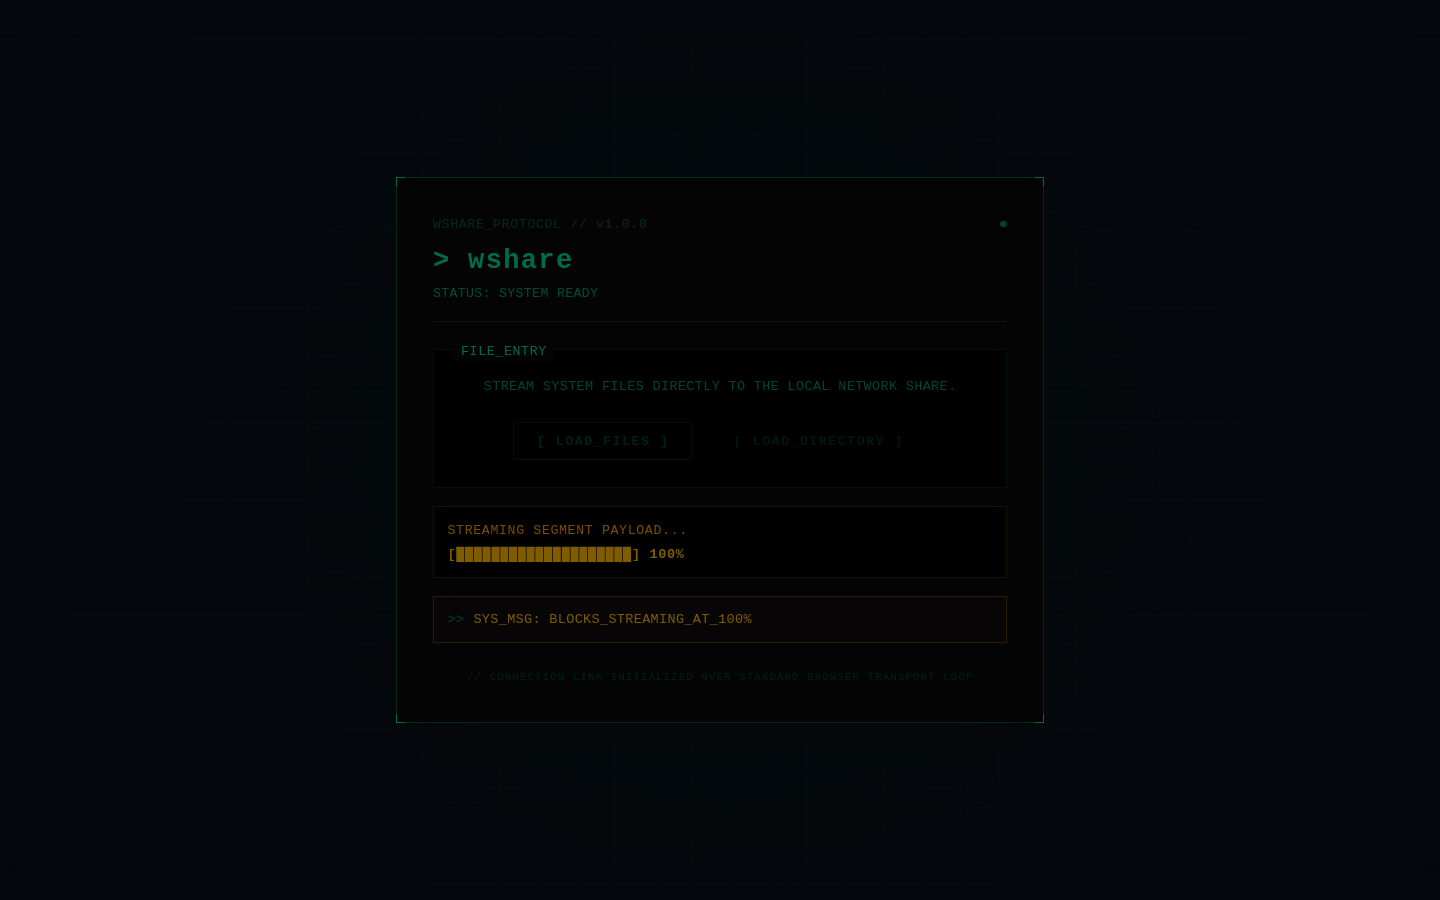
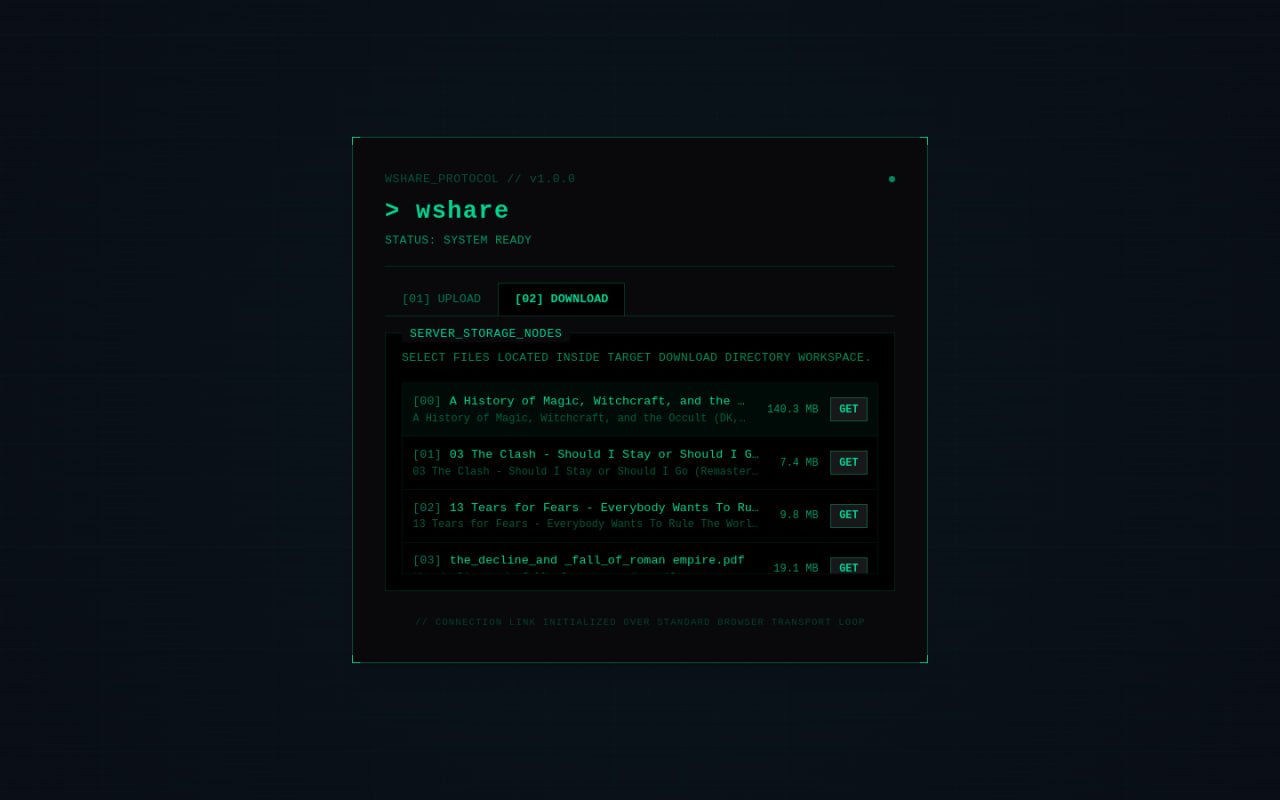
docs: update README with additional details

diff --git a/README.md b/README.md
@@ -10,20 +10,21 @@ A lightweight local network file transfer tool built with **.NET** that enables 
 
 One device runs the server, and others connect using the displayed LAN address. Transfers are streamed over HTTP and written directly to disk in real time.
 
+The server also exposes files stored inside the `wshare-downloads/` directory, allowing connected devices to browse and download files directly from the web interface.
+
 ---
 
 ## 💡 Inspiration
 
-This project was built out of a real limitation
+This project was built out of a real limitation.
 
-I was brought a laptop where **USB access was restricted and software installation required admin privileges**, so I couldn’t use traditional file transfer tools. To solve this, I built `wshare` to move files over a local network using only a browser.
+I was brought a laptop where **USB access was restricted and software installation required admin privileges**, so traditional file transfer tools were not an option. To solve this, I built `wshare` to move files over a local network using only a browser.
 
 ---
 
-
-> 💡 **Note:**  
-> This project currently supports **one-way transfer only (client → server)**.  
-> There is no download UI yet for sending files back from the server device to other devices.
+> 💡 **Note:**
+> Uploaded files are stored inside the `wshare-downloads/` directory.
+> Files located there are automatically exposed through the download tab and can be downloaded by other devices connected to the same network.
 
 ---
 
@@ -57,8 +58,6 @@ wshare/
 
 ### 🚀 Primary (Development Mode)
 
-This is the recommended way to run the project:
-
 ```bash
 cd wshare-client
 npm install
@@ -68,14 +67,13 @@ cd ../wshare.Server
 dotnet run
 ```
 
-The server will print LAN access URLs automatically.  
-Open one from another device on the same Wi-Fi network.
+The server prints LAN access URLs automatically.
+
+Open one from another device connected to the same Wi-Fi network.
 
 ---
 
 ### 📦 Alternative (Published Build)
-
-After publishing the server:
 
 #### Linux
 
@@ -95,19 +93,20 @@ wshare.Server.exe
 
 ## ⚙ How it works
 
-- Starts a .NET HTTP server on port `5050`
-- Detects and prints active LAN IPs
-- Serves React UI from `wwwroot`
-- Accepts streamed multipart uploads
-- Writes files directly to disk (no full buffering)
-
+* Starts a .NET HTTP server on port `5050`
+* Detects and prints active LAN IPs
+* Serves React UI from `wwwroot`
+* Accepts streamed multipart uploads
+* Writes files directly to disk (no full buffering)
+* Preserves folder structure during upload
+* Exposes downloadable files from `wshare-downloads/`
 
 ---
 
 ## 🧱 Stack
 
-- .NET
-- React
+* .NET
+* React
 
 ---
 
